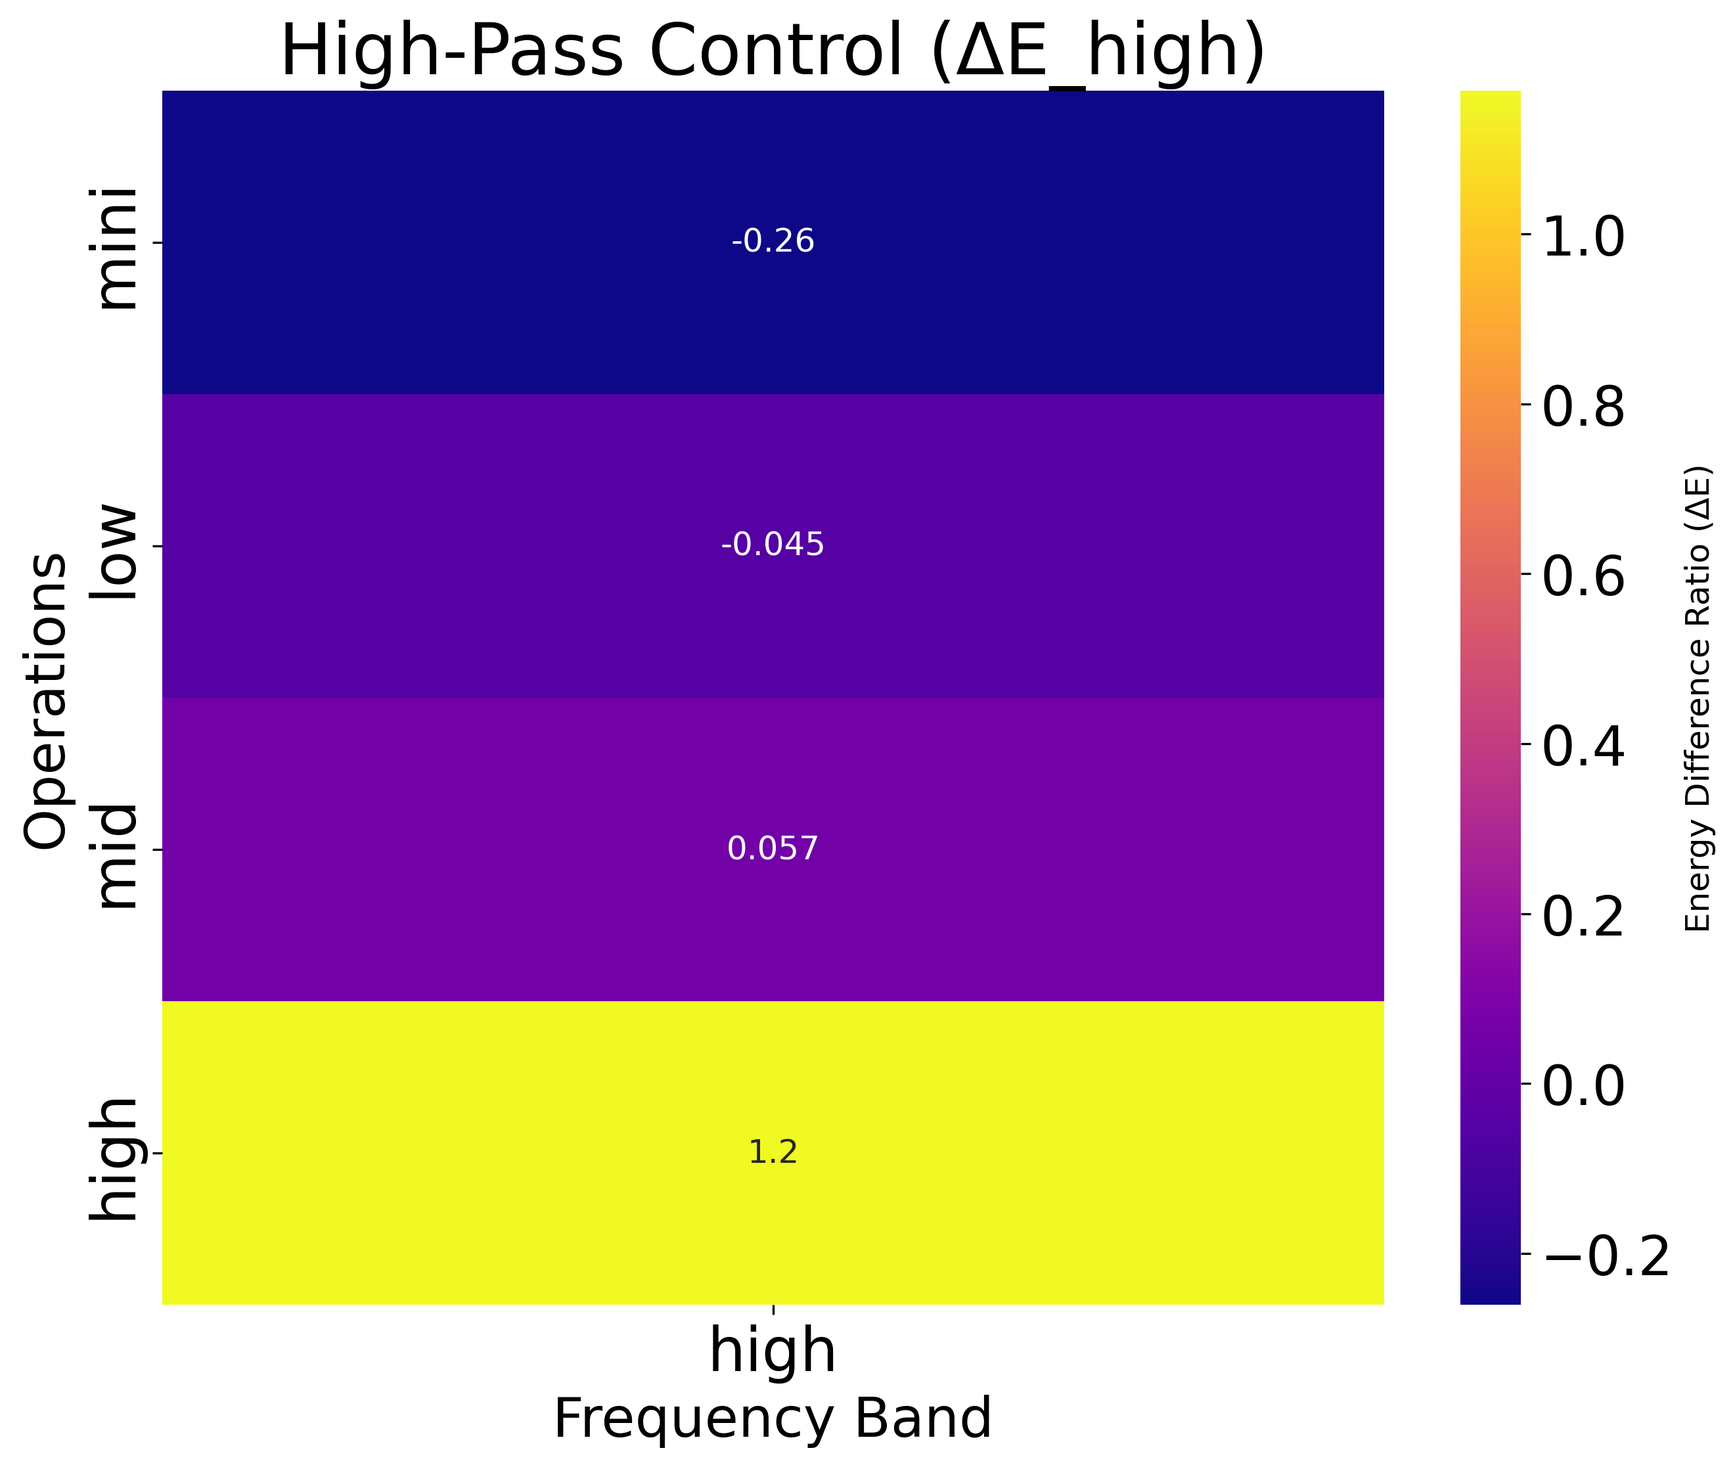
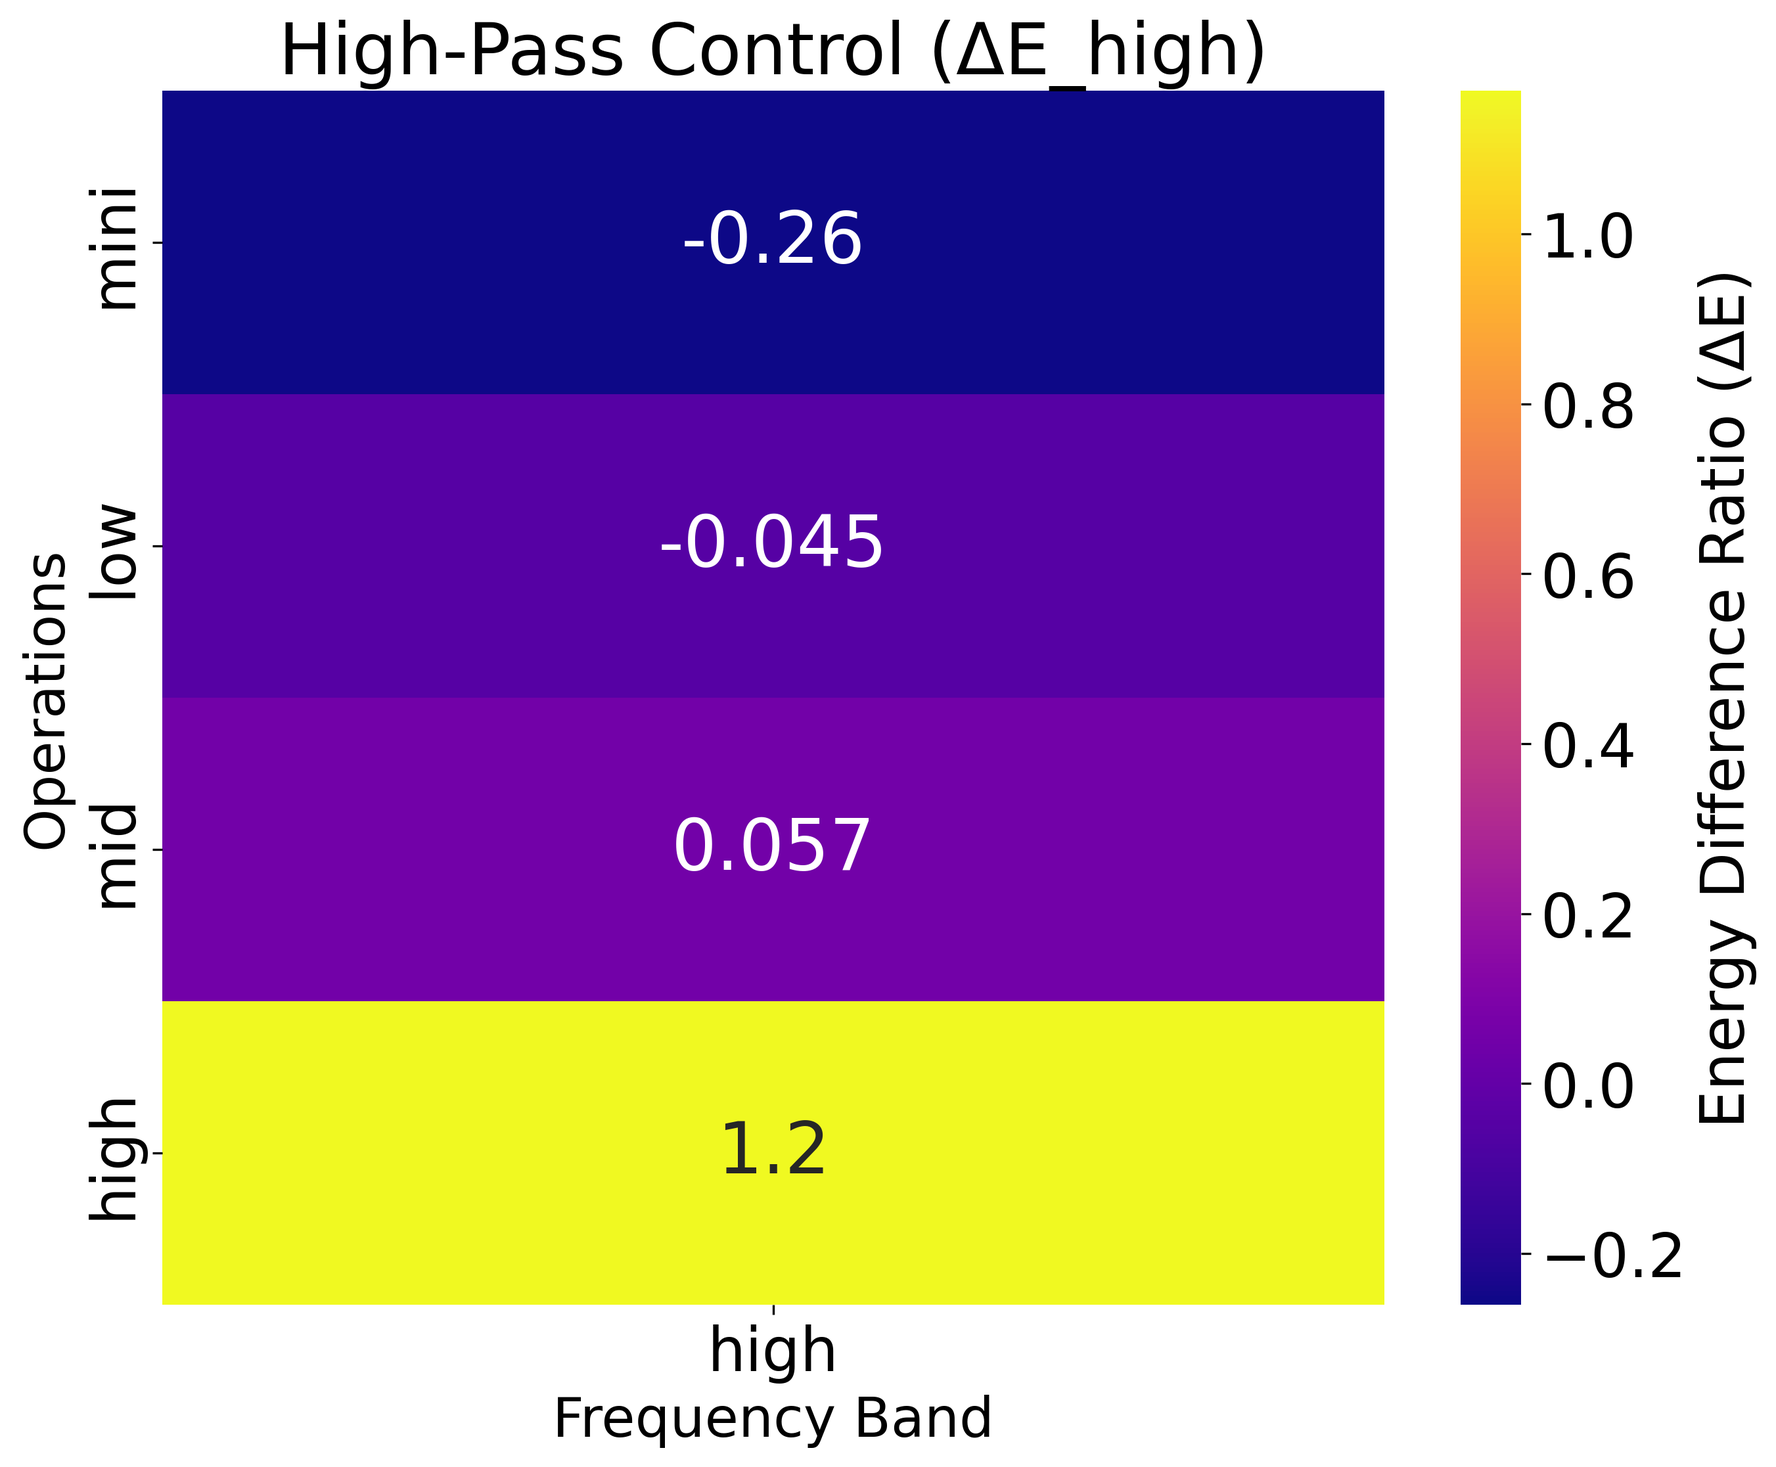
modify

diff --git a/fcdiffusion_distill.py b/fcdiffusion_distill.py
@@ -21,7 +21,7 @@ class FCDiffusionDistill(pl.LightningModule):
         self.log_every_n_steps = log_every_n_steps
         # 如果没有提供lambda_dict，则默认均分权重（总和为1）
         if lambda_dict is None:
-            self.lambda_dict = {"low_pass": 0.25, "mini_pass": 0.25, "mid_pass": 0.25, "high_pass": 0.25}
+            self.lambda_dict = {"low_pass": 0.15, "mini_pass": 0.45, "mid_pass": 0.25, "high_pass": 0.15}
         else:
             self.lambda_dict = lambda_dict
 
@@ -61,39 +61,92 @@ class FCDiffusionDistill(pl.LightningModule):
         norm = torch.sqrt(torch.sum(noise ** 2, dim=[1, 2, 3], keepdim=True) + 1e-8)
         return noise / norm
 
-    def training_step(self, batch, batch_idx):
-        # 分别使用教师和学生模型获取输入
-        # 注意：教师模型内部的 get_input 根据各自的 control_mode 返回对应的控制信号
-        x_teacher, c_teacher = None, None
-        x_student, c_student = None, None
+    # def training_step(self, batch, batch_idx):
+    #     # 分别使用教师和学生模型获取输入
+    #     # 注意：教师模型内部的 get_input 根据各自的 control_mode 返回对应的控制信号
+    #     x_teacher, c_teacher = None, None
+    #     x_student, c_student = None, None
 
-        # 假设教师和学生 get_input 接口一致，这里用任一教师模型获取输入（数据一致）
-        teacher_model_sample = next(iter(self.teacher_models.values()))
-        x_teacher, c_teacher = teacher_model_sample.get_input(batch, teacher_model_sample.first_stage_key)
-        x_student, c_student = self.model.get_input(batch, self.model.first_stage_key)
+    #     # 假设教师和学生 get_input 接口一致，这里用任一教师模型获取输入（数据一致）
+    #     teacher_model_sample = next(iter(self.teacher_models.values()))
+    #     print(f"control_model:{teacher_model_sample}")
+    #     x_teacher, c_teacher = teacher_model_sample.get_input(batch, teacher_model_sample.first_stage_key)
+    #     x_student, c_student = self.model.get_input(batch, self.model.first_stage_key)
+        
+
+    #     total_loss = 0.0
+    #     loss_dict = {}
+    #     # 对于每个教师模型（各个频段），计算对应的蒸馏损失
+    #     for mode, teacher_model in self.teacher_models.items():
+    #         with torch.no_grad():
+
+    #             # 这里教师模型内部根据配置中的 control_mode 进行处理，不需要额外传参
+    #             teacher_eps = teacher_model(x_teacher, c_teacher, return_eps=True)
+    #         # student_eps = self.model(x_student, c_student, return_eps=True, control= None) 
+    #         print(f"mode:{mode}")
+    #         self.model.control_mode = mode 
+    #         student_eps = self.model(x_student, c_student, return_eps=True)   # 学生模型也需支持对齐接口
+    #         student_noise_loss, _ = self.model.shared_step(batch)
+    #         loss_mode = self.noise_loss_normalized(student_eps, teacher_eps)
+    #         weighted_loss = self.lambda_dict[mode] * loss_mode
+    #         total_loss += weighted_loss
+    #         total_loss += student_noise_loss
+    #         loss_dict[mode] = loss_mode.item()
     
+    #     # 记录日志
+    #     self.log("training/total_loss", total_loss, on_step=True, on_epoch=False, prog_bar=True)
+    #     for mode in self.teacher_models.keys():
+    #         self.log(f"training/{mode}_loss", loss_dict[mode], on_step=True,on_epoch=False, prog_bar=True)
+    
+    #     if batch_idx % self.log_every_n_steps == 0:
+    #         print(f"Step {self.trainer.global_step}: " + ", ".join([f"{mode}_loss={loss_dict[mode]:.4f}" for mode in self.teacher_models.keys()]))
+    
+    #     return total_loss
+
+    def training_step(self, batch, batch_idx):
+        # 初始化总损失和损失字典
         total_loss = 0.0
         loss_dict = {}
-        # 对于每个教师模型（各个频段），计算对应的蒸馏损失
+
+        # 遍历每个教师模型
         for mode, teacher_model in self.teacher_models.items():
+            # 获取教师模型的输入
+            x_teacher, c_teacher = teacher_model.get_input(batch, teacher_model.control_mode)
+            
+            # 学生模型的输入
+            x_student, c_student = self.model.get_input(batch, self.model.first_stage_key)
+            
             with torch.no_grad():
-                # 这里教师模型内部根据配置中的 control_mode 进行处理，不需要额外传参
+                # 计算教师模型的输出
                 teacher_eps = teacher_model(x_teacher, c_teacher, return_eps=True)
-            student_eps = self.model(x_student, c_student, return_eps=True, control= None)  # 学生模型也需支持对齐接口
+
+            # 设置学生模型的控制模式
+            self.model.control_mode = mode
+            
+            # 计算学生模型的输出和自身噪声预测损失
+            student_eps = self.model(x_student, c_student, return_eps=True)
+            student_noise_loss, _ = self.model.shared_step(batch)
+
+            # 计算蒸馏损失
             loss_mode = self.noise_loss_normalized(student_eps, teacher_eps)
-            weighted_loss = self.lambda_dict[mode] * loss_mode
-            total_loss += weighted_loss
-            loss_dict[mode] = loss_mode.item()
-    
+            weighted_loss = self.lambda_dict.get(mode, 1.0) * loss_mode
+
+            # 累加损失
+            total_loss += weighted_loss + student_noise_loss
+            loss_dict[f"{mode}_distill_loss"] = loss_mode.item()
+            loss_dict[f"{mode}_student_loss"] = student_noise_loss.item()
+
         # 记录日志
-        self.log("training/total_loss", total_loss, on_step=True, prog_bar=True)
-        for mode in self.teacher_models.keys():
-            self.log(f"training/{mode}_loss", loss_dict[mode], on_step=True)
-    
+        self.log("training/total_loss", total_loss, on_step=True, on_epoch=False, prog_bar=True)
+        for key, value in loss_dict.items():
+            self.log(f"training/{key}", value, on_step=True, on_epoch=False, prog_bar=True)
+
         if batch_idx % self.log_every_n_steps == 0:
-            print(f"Step {self.trainer.global_step}: " + ", ".join([f"{mode}_loss={loss_dict[mode]:.4f}" for mode in self.teacher_models.keys()]))
-    
+            print(f"Step {self.trainer.global_step}: " +
+                ", ".join([f"{key}={value:.4f}" for key, value in loss_dict.items()]))
+
         return total_loss
+
 
     @staticmethod
     def load_model_from_config(config, ckpt, device=torch.device("cuda"), verbose=True):
@@ -144,10 +197,10 @@ class FCDiffusionDistill(pl.LightningModule):
 if __name__ == "__main__":
     # 教师模型 checkpoint 字典，每个频段对应一个 checkpoint 路径
     teacher_ckpt = {
-        "low_pass": r"D:\paper\FRE_FCD\lightning_logs\low\epoch=5-step=17999.ckpt",
-        "mini_pass": r"D:\paper\FRE_FCD\lightning_logs\mini\epoch=1-step=2999.ckpt",
-        "mid_pass": r"D:\paper\FCDiffusion_code-main\lightning_logs\fcdiffusion_mid_pass_checkpoint\epoch=11-step=241999.ckpt",
-        "high_pass": r"D:\paper\FCDiffusion_code-main\lightning_logs\fcdiffusion_high_pass_checkpoint\epoch=3-step=12999.ckpt"
+        "low_pass": "./lightning_logs_SA/fcdiffusion_low_pass_checkpoint/epoch=5-step=17999.ckpt",
+        "mini_pass": "./lightning_logs_SA/fcdiffusion_mini_pass_checkpoint/epoch=1-step=2999.ckpt",
+        "mid_pass": "./lightning_logs_SA/fcdiffusion_mid_pass_checkpoint/epoch=8-step=24999.ckpt",
+        "high_pass": "lightning_logs_SA/fcdiffusion_high_pass_checkpoint/epoch=2-step=9999.ckpt"
     }
     
     student_config = 'configs/student_model_config.yaml'
@@ -164,8 +217,8 @@ if __name__ == "__main__":
     
     from fcdiffusion.dataset import TrainDataset
     from torch.utils.data import DataLoader
-    dataset = TrainDataset('/home/apulis-dev/userdata/FCDiffusion_code/datasets/training_data.json', cache_size=1000)
-    dataloader = DataLoader(dataset, num_workers=2, batch_size=1, shuffle=True)
+    dataset = TrainDataset('/home/apulis-dev/userdata/FCDiffusion_code/datasets/training_data.json', cache_size=100)
+    dataloader = DataLoader(dataset, num_workers=1, batch_size=1, shuffle=True)
     
     from pytorch_lightning.callbacks import ModelCheckpoint
 
@@ -204,3 +257,5 @@ if __name__ == "__main__":
     )
     
     trainer.fit(model, dataloader)
+
+

diff --git a/test_distillation.py b/test_distillation.py
@@ -7,23 +7,23 @@ from PIL import Image
 import numpy as np
 from torch.utils.data import DataLoader
 from fcdiffusion.dataset import TestDataset
-# from fcdiffusion_distill_samearch import FCDiffusionDistill
 torch.cuda.set_device(0)
 
 import os
 os.environ['CURL_CA_BUNDLE'] = ''
 
+class StudentModelCheckpoint:
+    pass
+
 def load_student_model_from_config(config, ckpt_file_path, device=torch.device("cuda"), verbose=True):
     print(f"Loading model from {ckpt_file_path}")
     pl_sd = torch.load(ckpt_file_path, map_location="cpu")
-    # if "global_step" in pl_sd:
-    #     print(f"Global Step: {pl_sd['global_step']}")
+
     sd = pl_sd["state_dict"]
 
-    # student_sd = {k.replace("model.", ""): v for k, v in sd.items() if  k.startswith("model.") }
-    student_sd = {k[6:]: v for k, v in ckpt['state_dict'].items()  if  k.startswith("model.") }
-    # with open("student_sd.txt", 'a') as f:
-    #     f.write(f"student_sd:{student_sd}\n")
+
+    student_sd = {k[6:]: v for k, v in sd.items()  if  k.startswith("model.") }
+
 
     model = instantiate_from_config(config.model)
 
@@ -54,22 +54,10 @@ def load_student_model_from_config(config, ckpt_file_path, device=torch.device("
 
 # Load configuration and checkpoint
 yaml_file_path = 'configs/student_model_config.yaml'
-# ckpt_file_path =  "lightning_logs/fcdiffusion_low_pass_checkpoint/epoch=2-step=55999-v1.ckpt"
-ckpt_file_path = 'lightning_logs/distiallation_low_pass_checkpoint/epoch=3-step=141999.ckpt'
-# yaml_file_path = "configs/teacher_model_config.yaml"
-# ckpt_file_path = '/home/apulis-dev/userdata/FCDiffusion_code/lightning_logs/fcdiffusion_mid_pass_checkpoint/epoch=11-step=241999.ckpt'
-ckpt = torch.load(ckpt_file_path, map_location="cpu")  # 加载 checkpoint
+ckpt_file_path = 'path/to/yourname'
 
 
-# 提取学生模型的权重
-# student_sd = {k: v for k, v in ckpt['state_dict'].items()  }
-# student_sd = {k[6:]: v for k, v in ckpt['state_dict'].items()  if  k.startswith("model.") }
-# # 将输出保存到文件
-# output_file_path = '0224_invert_student_model_parameters_from_ckpt1.txt'  # 输出文件路径
-# with open(output_file_path, 'w') as f:
-#     f.write("222Student model parameters in checkpoint:\n")
-#     for key in student_sd.keys():
-#         f.write(f"{key}\n")
+
 
 config = OmegaConf.load(yaml_file_path)
 device = torch.device("cuda")
@@ -78,14 +66,8 @@ model = load_student_model_from_config(config, ckpt_file_path, device)
 # Ensure model is in eval mode
 model.eval()
 
-# # Debugging: Print model structure
-# output_file_path = 'student_model_arch_dis33.txt'  # 输出文件路径
-# with open(output_file_path, 'w') as f:
-#     # for key in student_sd.keys():
-#     f.write(f"Model architecture_dis2: {model}")
 
-# Set test image path and target prompt
-import os
+
 
 def is_image_file(filename):
     """Check if the file is an image file."""
@@ -112,11 +94,11 @@ def traverse_images_and_texts(directory):
     return image_files, text_contents
 
 # Set test image path and target prompt
-directory_path = r'D:\paper\FCDiffusion_code-main\datasets\test'  # Replace with your directory path
+directory_path = 'path/to/yourname' # Replace with your directory path
 image_files, text_contents = traverse_images_and_texts(directory_path)
 
 # Output directory
-repath = r"D:\paper\FCDiffusion_code-main\datasets\test_dis"
+repath = 'path/to/yourname'
 if not os.path.exists(repath):
     os.makedirs(repath)
 
@@ -142,21 +124,3 @@ for image_file, text_content in zip(image_files, text_contents):
         # Image.fromarray(((sample.cpu().numpy() + 1) * 127.5).astype(np.uint8)).show()
         Image.fromarray(((sample.cpu().numpy() + 1) * 127.5).astype(np.uint8)).save(reconstruction_img_path)
         
-        # Debugging: Check output values
-        # print(f"Log output: {log}")
-        # reconstruction = log['reconstruction'].squeeze()
-        # # print(f"Reconstruction min/max: {reconstruction.min()}, {reconstruction.max()}")
-        # reconstruction = reconstruction.permute(1, 2, 0)
-        # # Normalize and save the image
-        # reconstruction = torch.clamp(reconstruction, -1, 1)
-        # reconstruction_img = Image.fromarray(((reconstruction.cpu().numpy() + 1) * 127.5).astype(np.uint8))
-        # # reconstruction_img.show()  # Display the image for debugging
-        # reconstruction_img.save(reconstruction_img_path)
-
-        # # Debugging: Check sample
-        # sample = log["samples"].squeeze()
-        # sample = sample.permute(1, 2, 0)
-        # # print(f"Sample shape min/max:{sample.shape} {sample.min()}, {sample.max()}")
-        # sample = torch.clamp(sample, -1, 1)
-        # Image.fromarray(((sample.cpu().numpy() + 1) * 127.5).astype(np.uint8)).save(reconstruction_img_path)
-

diff --git a/fcdiffusion_test.py b/fcdiffusion_test.py
@@ -118,7 +118,7 @@ yaml_file_path = "configs/model_config.yaml"
 # ckpt_file_path = "lightning_logs/fcdiffusion_mini_pass_checkpoint/epoch=10-step=34999.ckpt"
 # ckpt_file_path = r"D:\paper\FCDiffusion_code-main\lightning_logs\fcdiffusion_mid_pass_checkpoint\epoch=7-step=17999.ckpt"
 # ckpt_file_path = r"D:\paper\FCDiffusion_code-main\lightning_logs\fcdiffusion_mid_pass_checkpoint\epoch=11-step=241999.ckpt"
-ckpt_file_path = r'D:\paper\FRE_FCD\lightning_logs_SA\fcdiffusion_mid_pass_checkpoint\epoch=2-step=5999.ckpt'     
+ckpt_file_path = r'D:\paper\FRE_FCD\lightning_logs_SA\fcdiffusion_high_pass_checkpoint\epoch=7-step=9999.ckpt'     
 # ckpt_file_path = r"D:\paper\FRE_FCD\lightning_logs\mini\epoch=1-step=2999.ckpt"
 # ckpt_file_path = "lightning_logs_SA/fcdiffusion_mid_pass_checkpoint\epoch=0-step=1999.ckpt"
 # ckpt_file_path = r"D:\paper\FCDiffusion_code-main\lightning_logs\fcdiffusion_high_pass_checkpoint\epoch=3-step=12999.ckpt"

diff --git a/calculate_DINO_VIT.py b/calculate_DINO_VIT.py
@@ -102,8 +102,6 @@ def compute_structure_similarity(image1, image2, dino_extractor):
 
 
 
-
-
 def compute_folder_similarity(folder1, folder2, dino_extractor):
     # 获取文件夹1中的所有图片文件并排序
     images1 = sorted([os.path.join(folder1, f) for f in os.listdir(folder1) if f.endswith(('.jpg', '.png', '.jpeg'))])
@@ -154,9 +152,9 @@ def save_results_to_file(results, average_similarity, output_file):
 
 if __name__ == "__main__":
     # Define folders
-    folder1 = r"D:\paper\FCDiffusion_code-main\datasets\test"
-    folder2 = r"D:\paper\FCDiffusion_code-main\datasets\test_final"
-    output_file = "similarity_results_dis_mid.csv"
+    folder1 = r"D:\paper\FCDiffusion_code-main\datasets\test_multi_dis"
+    folder2 = r"D:\paper\FCDiffusion_code-main\datasets\test_high_interpre" 
+    output_file = "similarity_results_dis_high.csv"
 
     # Initialize DINO-ViT extractor
     dino_extractor = DinoVitExtractor()

diff --git a/calculate_energy_distribution.py b/calculate_energy_distribution.py
@@ -151,13 +151,13 @@ def extract_dct_features(image_tensor, control_mode='low_pass', threshold_low=30
     dct_features = dct_2d(image_gray, norm='ortho').cuda()
     
     if control_mode == 'low_pass':
-        filtered_dct = low_pass(dct_features, threshold_low)
+        filtered_dct = low_pass(dct_features, 30)
     elif control_mode == 'mini_pass':
-        filtered_dct = low_pass_and_shuffle(dct_features, threshold_low)
+        filtered_dct = low_pass_and_shuffle(dct_features, 10)
     elif control_mode == 'mid_pass':
-        filtered_dct = high_pass(low_pass(dct_features, threshold_low), threshold_mid)
+        filtered_dct = high_pass(low_pass(dct_features, 20), 40)
     elif control_mode == 'high_pass':
-        filtered_dct = high_pass(dct_features, threshold_high)
+        filtered_dct = high_pass(dct_features, 50)
     else:
         filtered_dct = dct_features
         

diff --git a/generate_heatimage.py b/generate_heatimage.py
@@ -190,7 +190,7 @@ for band in data:
     
     # 创建热力图
     plt.figure(figsize=(10, 8))
-    ax = sns.heatmap(matrix, annot=True, annot_kws={"size": 12}, cmap=cmap, xticklabels=[band], yticklabels=operations,
+    ax = sns.heatmap(matrix, annot=True, annot_kws={"size": 26}, cmap=cmap, xticklabels=[band], yticklabels=operations,
                      cbar=True, cbar_kws={'label': 'Energy Difference Ratio (ΔE)'})
     
     # 设置标题
@@ -200,8 +200,8 @@ for band in data:
     
     # 调整颜色条的位置和大小
     cbar = ax.collections[0].colorbar
-    cbar.ax.tick_params(labelsize=20)
-    cbar.set_label('Energy Difference Ratio (ΔE)', fontsize=12)
+    cbar.ax.tick_params(labelsize=22)
+    cbar.set_label('Energy Difference Ratio (ΔE)', fontsize=22)
     
     # 调整 x 轴和 y 轴的刻度标签字体大小
     plt.xticks(fontsize=22)

diff --git a/fcdiffusion_train.py b/fcdiffusion_train.py
@@ -10,7 +10,7 @@ torch.cuda.set_device(0)
 
 # Configs
 # resume_path = r'D:\paper\FCDiffusion_code-main\lightning_logs\fcdiffusion_mid_pass_checkpoint\epoch=11-step=241999.ckpt'
-resume_path = r"D:\paper\FRE_FCD\lightning_logs\low\epoch=5-step=125999.ckpt"
+resume_path = r'D:\paper\FRE_FCD\lightning_logs_SA\fcdiffusion_high_pass_checkpoint\epoch=7-step=9999.ckpt'
 batch_size = 2
 logger_freq = 1000
 learning_rate = 1e-5 #origin is 6e-6,1e-5

diff --git a/README.md b/README.md
@@ -74,9 +74,9 @@ Before training, set the **control_mode** parameter in the model_config.yaml con
 - The "mid_pass" mode realizes image scene translation with mid-frequency control.
 - The "high-pass" mode realizes image style translation with high-frequency control.
 
-Then, run the Python script **fcdiffusion_train.py** to start training or to run the pre-train model directly:
+Then, run the Python script *** to start training multi-distillation model directly:
 <pre><code>
-python fcdiffusion_train.py
+python fcdiffusion_distill.py
 </code></pre>
 
 # Parameter setup
@@ -84,7 +84,7 @@ python fcdiffusion_train.py
 2 set the path of teacher model ckpt.
 
 # Model inference
-Inference model for text-driven image-to-image translation by running the Python script **fcdiffusion_test.py**:
+Inference model for text-driven image-to-image translation by running the Python script :
 <pre><code>
 python fcdiffusion_distill_samearch.py
 </code></pre>
